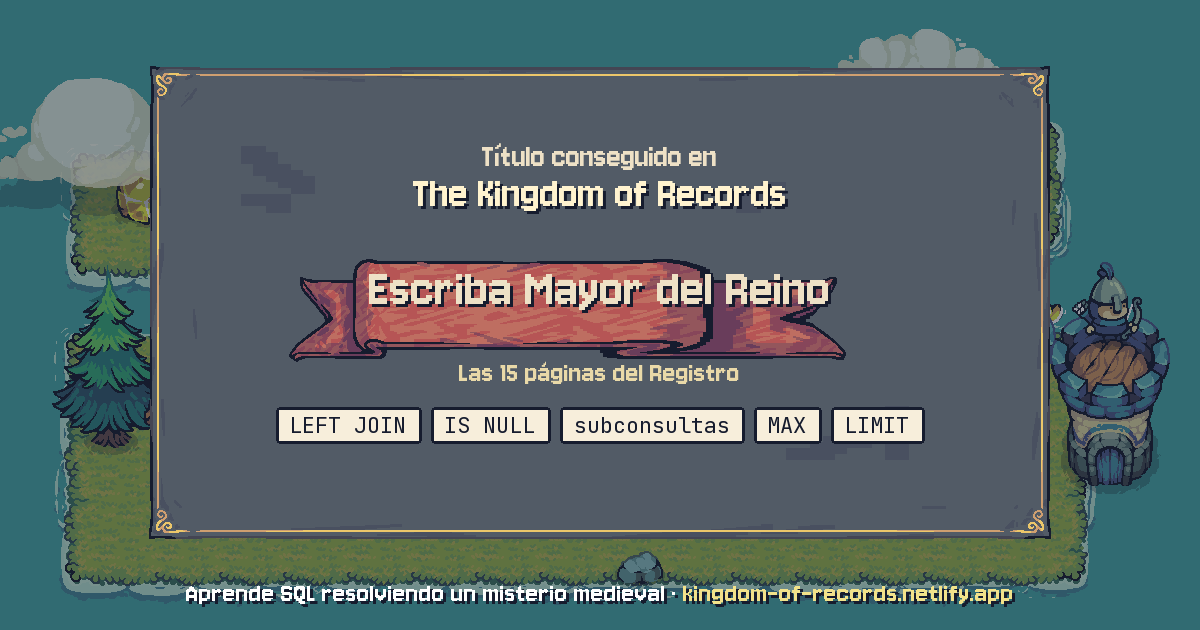
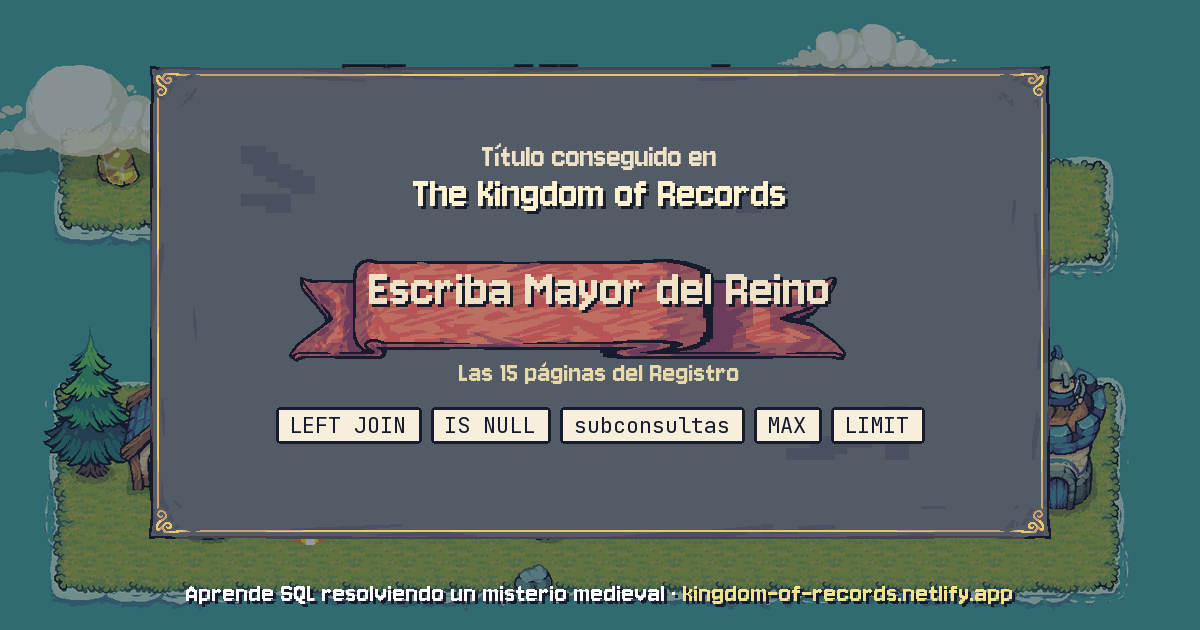
feat: link preview images with the current title screen
public/og-image.png is captured again from the title screen as it is
now (ducks, the Ko-fi sign, the tower and its archer), at 1440x756 and
scaled to 1200x630. The share images of the titles are built over
scripts/share-background.png, the same screen without the Ko-fi sign,
which showed behind their card.

diff --git a/scripts/build_share.py b/scripts/build_share.py
@@ -3,7 +3,9 @@
 LinkedIn and other sites build a link preview from the page they are given, so each title has its own
 small page per language with its own image and texts; the page then opens the game in that language.
 Texts come from src/titles/titles.json and src/i18n/*.json; the art from public/ (run build_assets.py
-first) and the fonts from node_modules (run npm install first). Usage, from the project root
+first) and the fonts from node_modules (run npm install first). The background, scripts/share-background.png,
+is a 1200x630 capture of the title screen like public/og-image.png, without its Ko-fi sign (it would show
+behind the card). Usage, from the project root
 (requires Pillow and fonttools):
 
     python scripts/build_share.py
@@ -77,7 +79,7 @@ def text(draw, xy, s, f, fill, shadow=None, anchor='mt'):
 
 
 def image(title, lang, t):
-    bg = Image.open(os.path.join(PUBLIC, 'og-image.png')).convert('RGBA').resize((W, H))
+    bg = Image.open(os.path.join(ROOT, 'scripts', 'share-background.png')).convert('RGBA').resize((W, H))
     img = Image.alpha_composite(bg, Image.new('RGBA', (W, H), INK + (115,)))
     paper = Image.open(os.path.join(PUBLIC, 'assets', 'ui', 'special-paper.png')).convert('RGBA')
     card = (140, 46, W - 140, H - 70)

diff --git a/README.md b/README.md
@@ -134,8 +134,9 @@ are kept outside version control and never modified. The output is committed, so
 when the list of images changes.
 
 `scripts/build_share.py` (Python 3 + Pillow + fonttools, after `npm install` and `build_assets.py`)
-builds `public/share/`: one page and one 1200x630 image per title and language. Run it again when
-a title, its texts or the site address change; the tests check that every page and image exists.
+builds `public/share/`: one page and one 1200x630 image per title and language, over
+`scripts/share-background.png` (the title screen without its Ko-fi sign). Run it again when a title,
+its texts, the background or the site address change; the tests check that every page and image exists.
 
 ## Credits and licences
 

diff --git a/docs/DEPLOY.md b/docs/DEPLOY.md
@@ -108,7 +108,8 @@ To take it down: **Settings** → **Pages** → **Unpublish site**.
 ## Sharing the link
 
 `index.html` holds the link-preview metadata (Open Graph and Twitter Card): title, description and the
-1200x630 image `public/og-image.png` (a capture of the title screen). Social sites need absolute URLs,
+1200x630 image `public/og-image.png` (a capture of the title screen at 1440x756, the narrowest width
+with the Ko-fi sign, scaled down). Social sites need absolute URLs,
 so the address `https://kingdom-of-records.netlify.app/` is written there; update it if the site moves.
 
 - LinkedIn keeps its own copy of a preview. After changing the image or texts, paste the address into
